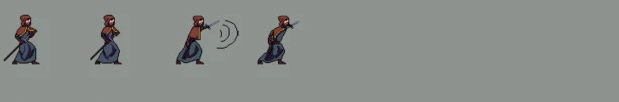
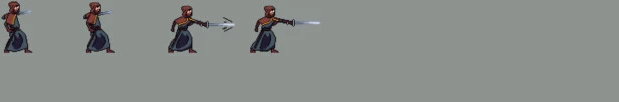
Téléportation dans la dimesion Genesis pour la deuxieme quête

Changed region(s): [[0.2456, 0.0588, 0.5218, 0.6471], [0.1228, 0.0294, 0.2149, 0.6471], [0.0, 0.0, 0.0614, 0.6471]]

diff --git a/main.py b/main.py
@@ -39,17 +39,19 @@ i = 0
 game_launched = False
 direction = 1
 index = None
+input_text = ""
 
 def update():
-  global perso_x, animation, direction, y, scroll_x, is_jumping, is_descending, is_inside, character_name, index, position_x, showed, game_launched, title, launch, character, pnj_list, dialog, instruction, i, characters_quest, objective
+  global perso_x, animation, input_text, direction, state, dimension, y, scroll_x, is_jumping, is_descending, is_inside, character_name, index, position_x, showed, game_launched, title, launch, character, pnj_list, dialog, instruction, i, characters_quest, objective
 
   perso_x, animation, direction = deplacement_x(perso_x, 1, direction)
 
+  state = ""
   quest_list = get_quests()
   dimension = get_player()["dimension"]
-  pnj_list = get_pnj(dimension)
 
   questNumber = get_player()['questNumber']
+  
   secondQuestNumber = int(str(questNumber).split(".")[1]) - 1
   deploy = quest_list[int(questNumber)]["deploy"]
   instruction = deploy[secondQuestNumber]["instruction"]
@@ -60,7 +62,14 @@ def update():
     correct_index = deploy[secondQuestNumber]["correct_index"]
   else:
     correct_index = ""
+
   original_dialog = deploy[secondQuestNumber]["dialog"]
+  dimension = get_player()["dimension"]
+  pnj_list = get_pnj(dimension)
+
+  pyxel.images[2].load(0,0,"assets/" + dimension + "_assets.png")
+
+  pyxel.images[1].load(0, 0, "assets/" + dimension +".png")
 
   if perso_x > scroll_x + SCROLL_BORDER_X and direction == 1:
     scroll_x += 3
@@ -92,6 +101,10 @@ def update():
         questNumber = round(questNumber + 0.1, 1)
         launch = False
         changeJson("questNumber", questNumber, "data/player.json")
+        if(questNumber == 1.2):
+          dimension = "genesis"
+          changeJson("dimension", dimension, "data/player.json")
+          pyxel.cls(0)
     elif correct_index != index and index != None:
         launch = False
         dialog = ""
@@ -141,55 +154,113 @@ def draw():
     pyxel.text(100, 10, "Ethereal Odyssey", 12)
     pyxel.text(40,100,"Press [E] to play (full screen highly recommended)", 12)
   else:
-    pyxel.cls(0)
-    pyxel.camera(scroll_x, 0)
-    pyxel.images[2].load(0, 0, "assets/assets1.png")
-    pyxel.images[1].load(0, 0, "assets/background.png")
-    for i in range(10):
-      pyxel.blt(256*i, 0, 1, 0,0,256,177)
+    if dimension == "ethereum":
+      pyxel.cls(0)
+      pyxel.camera(scroll_x, 0)
+      for i in range(10):
+        pyxel.blt(256*i, 0, 1, 0,0,256,177)
 
-    for elt in pnj_list:
-      pyxel.blt(elt["position_x"], elt["position_y"], elt["image_bank"], elt["location_x"], elt["location_y"], elt["size_x"], elt["size_y"], 21)
+      for elt in pnj_list:
+        pyxel.blt(elt["position_x"], elt["position_y"], elt["image_bank"], elt["location_x"], elt["location_y"], elt["size_x"], elt["size_y"], 21)
 
-      if (is_inside[elt["name"]] == True and elt["name"] == characters_quest):
-        pyxel.text(elt["position_x"]-20, 140, "Press [E] to interact", 21)
-    #Démarrage de la quête
-    
-    for i in range(1400):
-      pyxel.blt(41*i,250-21,2,1,74,41,21)
+        if (is_inside[elt["name"]] == True and elt["name"] == characters_quest):
+          pyxel.text(elt["position_x"]-20, 140, "Press [E] to interact", 21)
+      #Démarrage de la quête
+      
+      for i in range(1400):
+        pyxel.blt(41*i,250-21,2,1,74,41,21)
 
-    pyxel.blt(200, 0, 2, 47,0,128,100,21)
+      pyxel.blt(200, 0, 2, 47,0,128,100,21)
 
- #Animation
-    if (animation == "run" and is_jumping == False):
-      coef = pyxel.frame_count // 5 % 5
-      pyxel.blt(perso_x, y, 0, run_sprite[coef][0], run_sprite[coef][1],
-                run_sprite[coef][2] * direction, run_sprite[coef][3], 0)
-    elif (animation == "fireball" and is_jumping == False):
-      coef = pyxel.frame_count // 4 % 4
-      pyxel.blt(perso_x, y, 0, fireball_sprite[coef][0], fireball_sprite[coef][1],
-                fireball_sprite[coef][2], fireball_sprite[coef][3], 0)
-    elif (y != 150 and is_jumping == True):
-      coef = pyxel.frame_count // 6 % 6
-      pyxel.blt(perso_x, y, 0, jump_sprite[coef][0], jump_sprite[coef][1],
-                jump_sprite[coef][2] * direction, jump_sprite[coef][3], 0)
-    else:
-      pyxel.blt(perso_x, y, 0, 0, 0, 24*direction, 58, 0)
-
-    if character != "" and dialog != {} and dialog != "" and is_inside[characters_quest]: 
-      if(type(dialog[character]) == list):
-        pyxel.rect(scroll_x,170,500,100,23)
-        pyxel.text(scroll_x + 20,185,character.split("_")[0], 21)
-        for i in range(len(dialog[character])):
-          pyxel.text(scroll_x + 20,200+i*10,dialog[character][i]["Me_t1"], 21)
+  #Animation
+      if (animation == "run" and is_jumping == False):
+        coef = pyxel.frame_count // 5 % 5
+        pyxel.blt(perso_x, y, 0, run_sprite[coef][0], run_sprite[coef][1],
+                  run_sprite[coef][2] * direction, run_sprite[coef][3], 0)
+      elif (animation == "fireball" and is_jumping == False):
+        coef = pyxel.frame_count // 4 % 4
+        pyxel.blt(perso_x, y, 0, fireball_sprite[coef][0], fireball_sprite[coef][1],
+                  fireball_sprite[coef][2], fireball_sprite[coef][3], 0)
+      elif (y != 150 and is_jumping == True):
+        coef = pyxel.frame_count // 6 % 6
+        pyxel.blt(perso_x, y, 0, jump_sprite[coef][0], jump_sprite[coef][1],
+                  jump_sprite[coef][2] * direction, jump_sprite[coef][3], 0)
       else:
-        pyxel.rect(scroll_x,170,500,100,23)
-        pyxel.text(scroll_x + 20,185,character.split("_")[0], 21)
-        pyxel.text(scroll_x + 20,215,dialog[character],21)
-        pyxel.text(scroll_x + 400, 230, "Press [J] to continue", 21)
-   
-    pyxel.rect(scroll_x + 390, 0, 110, 25, 23)
-    pyxel.text(scroll_x + 400, 5, title, 21)
-    pyxel.text(scroll_x + 400, 15, instruction, 21)
+        pyxel.blt(perso_x, y, 0, 0, 0, 24*direction, 58, 0)
+
+      if character != "" and dialog != {} and dialog != "" and is_inside[characters_quest]: 
+        if(type(dialog[character]) == list):
+          pyxel.rect(scroll_x,170,500,100,23)
+          pyxel.text(scroll_x + 20,185,character.split("_")[0], 21)
+          for i in range(len(dialog[character])):
+            pyxel.text(scroll_x + 20,200+i*10,dialog[character][i]["Me_t1"], 21)
+        else:
+          pyxel.rect(scroll_x,170,500,100,23)
+          pyxel.text(scroll_x + 20,185,character.split("_")[0], 21)
+          pyxel.text(scroll_x + 20,215,dialog[character],21)
+          pyxel.text(scroll_x + 400, 230, "Press [J] to continue", 21)
+    
+      pyxel.rect(scroll_x + 370, 0, 130, 25, 23)
+      pyxel.text(scroll_x + 380, 5, title, 21)
+      pyxel.text(scroll_x + 380, 15, instruction, 21)
+    elif dimension == "genesis":
+      pyxel.cls(0)
+      pyxel.camera(scroll_x, 0)
+      for i in range(3):
+        pyxel.blt(250*i, 100,1,0,0,250,177)
+
+      if (animation == "run" and is_jumping == False):
+        coef = pyxel.frame_count // 5 % 5
+        pyxel.blt(perso_x, y, 0, run_sprite[coef][0], run_sprite[coef][1],
+                  run_sprite[coef][2] * direction, run_sprite[coef][3], 0)
+      elif (animation == "fireball" and is_jumping == False):
+        coef = pyxel.frame_count // 4 % 4
+        pyxel.blt(perso_x, y, 0, fireball_sprite[coef][0], fireball_sprite[coef][1],
+                  fireball_sprite[coef][2], fireball_sprite[coef][3], 0)
+      elif (y != 150 and is_jumping == True):
+        coef = pyxel.frame_count // 6 % 6
+        pyxel.blt(perso_x, y, 0, jump_sprite[coef][0], jump_sprite[coef][1],
+                  jump_sprite[coef][2] * direction, jump_sprite[coef][3], 0)
+      else:
+        pyxel.blt(perso_x, y, 0, 0, 0, 24*direction, 58, 0)
+
+      for elt in pnj_list:
+        coef = pyxel.frame_count // len(elt["location_x"]) % len(elt["location_x"])
+        pyxel.blt(elt["position_x"], elt["position_y"], elt["image_bank"], elt["location_x"][coef], elt["location_y"][coef], elt["size_x"][coef], elt["size_y"][coef], 0)
+
+        if (is_inside[elt["name"]] == True and elt["name"] == characters_quest):
+          pyxel.text(elt["position_x"]-20, 140, "Press [E] to interact", 21)
+
+      if character != "" and dialog != {} and dialog != "" and is_inside[characters_quest]: 
+        if(type(dialog[character]) == list):
+          pyxel.rect(scroll_x,170,500,100,23)
+          pyxel.text(scroll_x + 20,185,character.split("_")[0], 21)
+          for i in range(len(dialog[character])):
+            pyxel.text(scroll_x + 20,200+i*10,dialog[character][i]["Me_t1"], 21)
+        elif(dialog[character] == ""):
+          pyxel.rect(scroll_x,170,500,100,23)
+          pyxel.text(scroll_x + 20,185,character.split("_")[0], 21)
+          pyxel.text(scroll_x + 20, 215, input_text, 21)
+          for key in range(pyxel.KEY_A, pyxel.KEY_Z + 1):
+            if pyxel.btnp(key):
+                input_text += chr(ord('A') + (key - pyxel.KEY_A))
+        
+          if pyxel.btnp(pyxel.KEY_SPACE):
+              input_text += " "
+          
+          if pyxel.btnp(pyxel.KEY_BACKSPACE) and len(input_text) > 0:
+              input_text = input_text[:-1]
+
+          pyxel.text(scroll_x + 390, 230, "Press [ENTER] to continue", 21)
+        else:
+          pyxel.rect(scroll_x,170,500,100,23)
+          pyxel.text(scroll_x + 20,185,character.split("_")[0], 21)
+          pyxel.text(scroll_x + 20,215,dialog[character],21)
+          pyxel.text(scroll_x + 400, 230, "Press [J] to continue", 21)
+    
+      pyxel.rect(scroll_x + 370, 0, 130, 25, 23)
+      pyxel.text(scroll_x + 380, 5, title, 21)
+      pyxel.text(scroll_x + 380, 15, instruction, 21)
+
 
 pyxel.run(update, draw)
